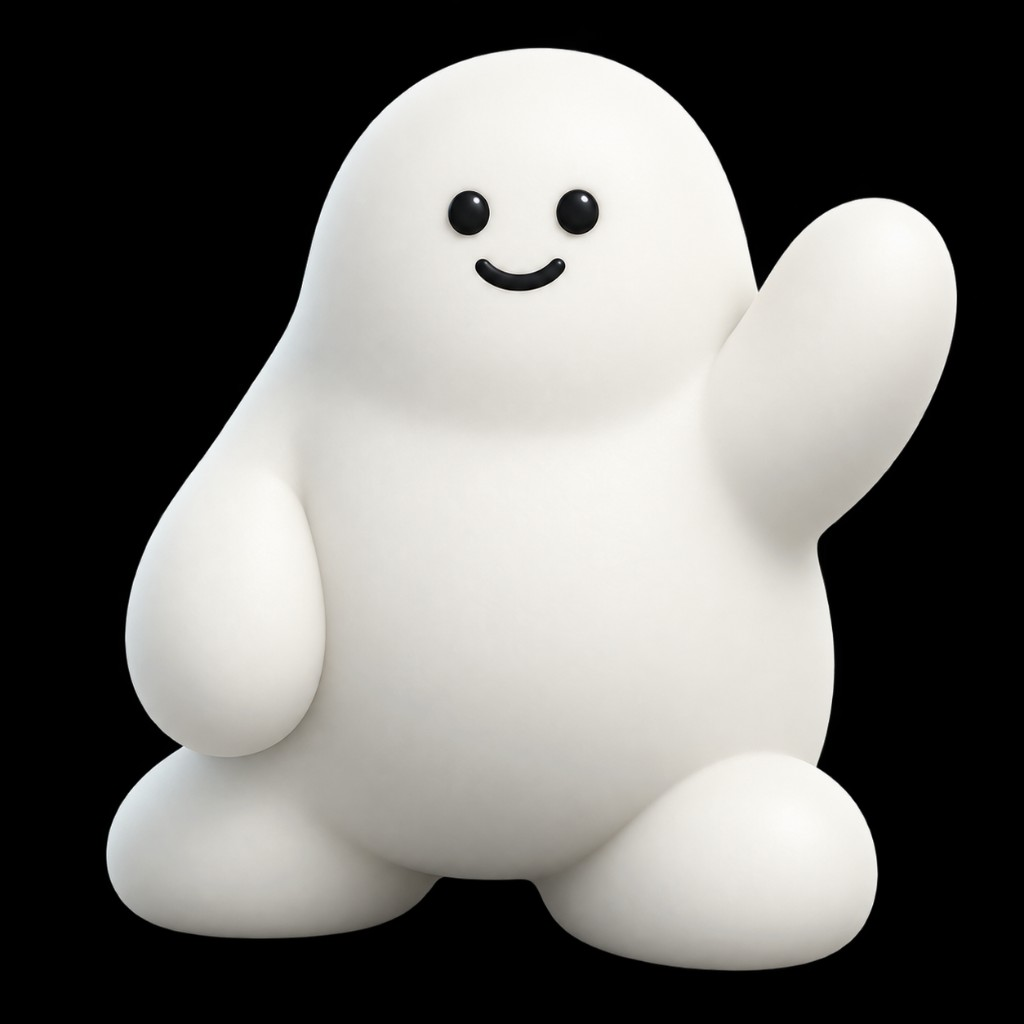
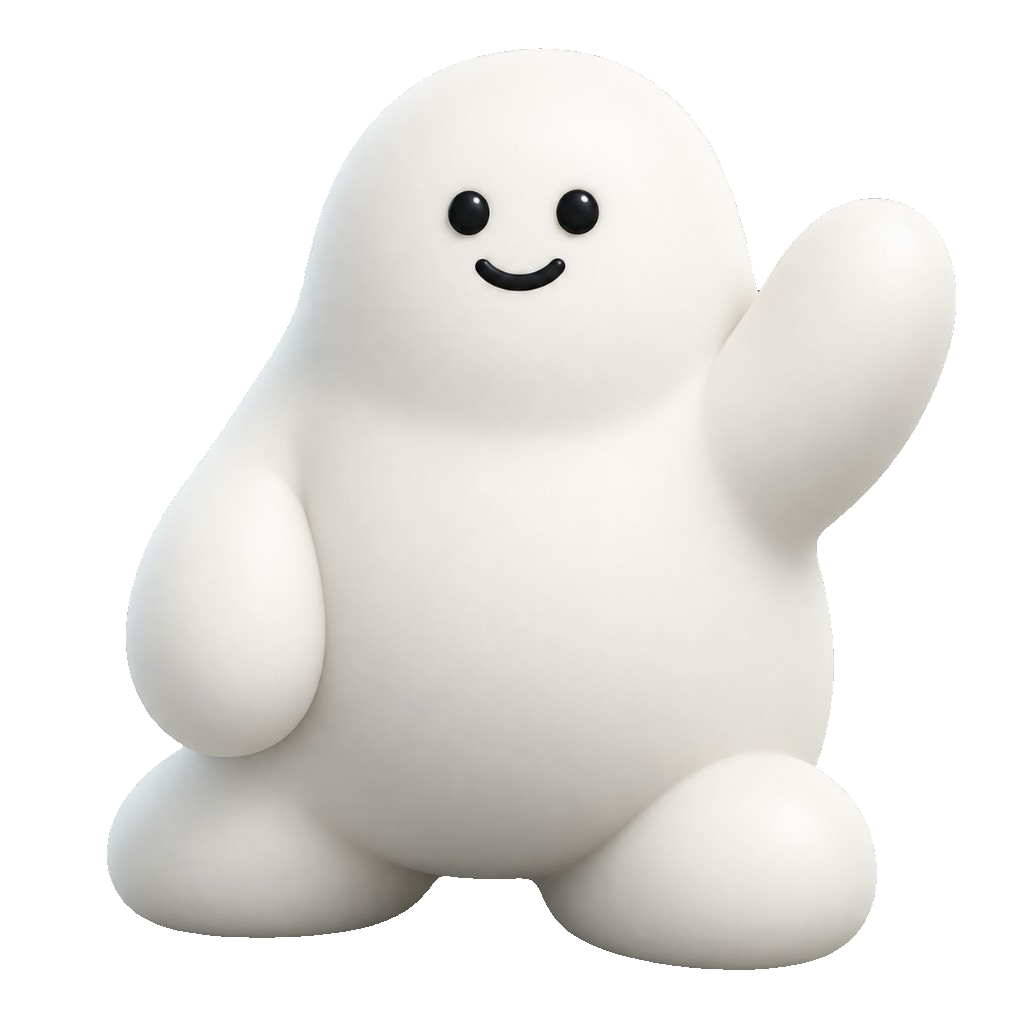
Show 3D waving Bob on pitch, auth, onboarding, and empty states.
The 2D line-art figure was still the mascot hero on light screens; point those surfaces at the keyed login render and keep the wordmark for tiny chrome.

diff --git a/components/auth/LoginHero.tsx b/components/auth/LoginHero.tsx
@@ -1,5 +1,5 @@
 import { Image } from 'expo-image';
-import { View } from 'react-native';
+import { Platform, View } from 'react-native';
 
 import { AppText } from '@/components/ui/AppText';
 
@@ -24,9 +24,38 @@ const PILLARS: Array<{
   { label: 'Stay Consistent', icon: ICON_STREAK, color: '#F08A3A', bottom: 18, right: 0 },
 ];
 
+const glowStyle =
+  Platform.OS === 'web'
+    ? {
+        position: 'absolute' as const,
+        left: '50%' as const,
+        top: 42,
+        width: 220,
+        height: 220,
+        marginLeft: -110,
+        borderRadius: 110,
+        backgroundColor: 'rgba(44, 155, 137, 0.5)',
+        filter: 'blur(42px)',
+      }
+    : {
+        position: 'absolute' as const,
+        left: '50%' as const,
+        top: 78,
+        width: 36,
+        height: 36,
+        marginLeft: -18,
+        borderRadius: 18,
+        backgroundColor: '#2C9B89',
+        shadowColor: '#2C9B89',
+        shadowOpacity: 0.95,
+        shadowRadius: 48,
+        shadowOffset: { width: 0, height: 0 },
+      };
+
 export function LoginHero() {
   return (
     <View style={{ height: 312, width: '100%' }}>
+      <View pointerEvents="none" style={glowStyle} />
       <Image
         source={BOB}
         style={{
@@ -38,6 +67,9 @@ export function LoginHero() {
           marginLeft: -98,
         }}
         contentFit="contain"
+        contentPosition="center"
+        cachePolicy="memory-disk"
+        recyclingKey="bob-3d-wave"
         accessibilityLabel="Bob"
       />
       {PILLARS.map((pillar) => (

diff --git a/components/mascot/BlobMascot.tsx b/components/mascot/BlobMascot.tsx
@@ -11,8 +11,10 @@ import Animated, {
 
 import { cn } from '@/utils/cn';
 
-const wave = require('@/assets/mascot/bob-wave.png');
+const wave = require('@/assets/login/blob-login.png');
 const logo = require('@/assets/mascot/blob-logo.png');
+
+const WORDMARK_MAX = 32;
 
 type MascotVariant = 'wave' | 'logo';
 type Motion = 'none' | 'pulse' | 'float';
@@ -60,7 +62,8 @@ export function BlobMascot({
     transform: [{ scale: scale.value }, { translateY: translateY.value }],
   }));
 
-  const height = variant === 'logo' ? size * 0.55 : size;
+  const useWordmark = variant === 'logo' || size <= WORDMARK_MAX;
+  const height = useWordmark ? size * 0.55 : size;
 
   return (
     <Animated.View
@@ -70,12 +73,12 @@ export function BlobMascot({
       ]}
       className={cn('items-center justify-center bg-transparent', className)}>
       <Image
-        source={variant === 'logo' ? logo : wave}
+        source={useWordmark ? logo : wave}
         style={{ width: size, height, backgroundColor: 'transparent' }}
         contentFit="contain"
         contentPosition="center"
         cachePolicy="memory-disk"
-        recyclingKey={variant === 'logo' ? 'blob-logo-transparent' : 'bob-wave-transparent'}
+        recyclingKey={useWordmark ? 'blob-logo-transparent' : 'bob-3d-wave'}
         transition={0}
       />
     </Animated.View>

diff --git a/components/mascot/BobPose.tsx b/components/mascot/BobPose.tsx
@@ -10,14 +10,16 @@ export type BobPoseName =
   | 'heart'
   | 'thumbsUp';
 
+const WAVE = require('@/assets/login/blob-login.png');
+
 const SOURCES: Record<BobPoseName, number> = {
-  wave: require('@/assets/mascot/bob-wave.png'),
-  point: require('@/assets/mascot/bob-point.png'),
-  clap: require('@/assets/mascot/bob-clap.png'),
-  celebrate: require('@/assets/mascot/bob-celebrate.png'),
-  trophy: require('@/assets/mascot/bob-trophy.png'),
-  heart: require('@/assets/mascot/bob-heart.png'),
-  thumbsUp: require('@/assets/mascot/bob-thumbs-up.png'),
+  wave: WAVE,
+  point: WAVE,
+  clap: WAVE,
+  celebrate: WAVE,
+  trophy: WAVE,
+  heart: WAVE,
+  thumbsUp: WAVE,
 };
 
 const LABELS: Record<BobPoseName, string> = {
@@ -49,7 +51,7 @@ export function BobPose({ pose, size = 72 }: BobPoseProps) {
         contentFit="contain"
         contentPosition="center"
         cachePolicy="memory-disk"
-        recyclingKey={`bob-${pose}-alpha`}
+        recyclingKey="bob-3d-wave"
         transition={0}
       />
     </View>
